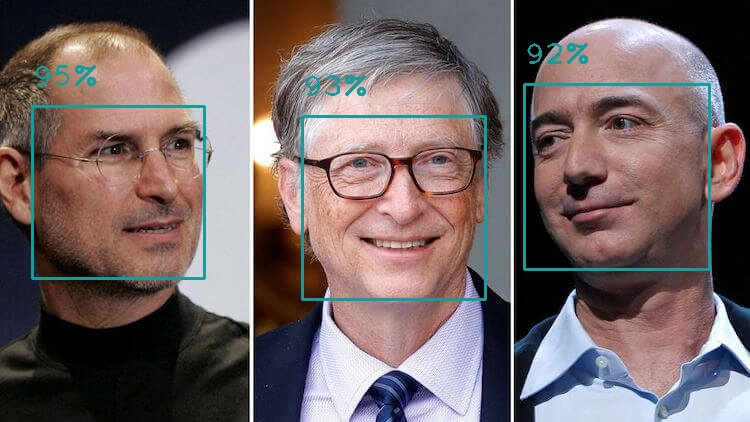
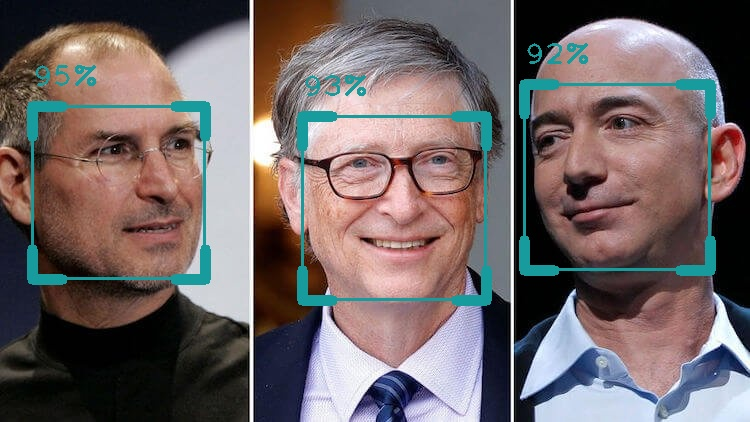
custom draw function with corners highlighted

diff --git a/faceDetection.py b/faceDetection.py
@@ -34,7 +34,7 @@ class FaceDetector:
                 # a tuple containing (id, boundingBox, detectionScore)
                 boundingBoxes.append((ind, boundingBox, detection.score))
                 if draw:
-                    cv2.rectangle(img, boundingBox, ANNOTATION_COLOR, 2)
+                    img = self.customDraw(img, boundingBox)
                     cv2.putText(
                         img,
                         f"{int(detection.score[0] * 100)}%",
@@ -55,9 +55,32 @@ class FaceDetector:
             res.append(self.findFace(frame, draw))
         return res
 
+    def customDraw(self, img, boundingBox, cornerMarkerLength=30, cornerMarkerThickness=10):
+        xStart, yStart, w, h = boundingBox
+        xEnd, yEnd = xStart + w, yStart + h
+
+        cv2.rectangle(img, boundingBox, ANNOTATION_COLOR, 2)
+        # top left corner
+        cv2.line(img, (xStart, yStart), (xStart + cornerMarkerLength, yStart), ANNOTATION_COLOR, cornerMarkerThickness)
+        cv2.line(img, (xStart, yStart), (xStart, yStart + cornerMarkerLength), ANNOTATION_COLOR, cornerMarkerThickness)
+
+        # top right corner
+        cv2.line(img, (xEnd, yStart), (xEnd - cornerMarkerLength, yStart), ANNOTATION_COLOR, cornerMarkerThickness)
+        cv2.line(img, (xEnd, yStart), (xEnd, yStart + cornerMarkerLength), ANNOTATION_COLOR, cornerMarkerThickness)
+
+        # bottom right corner
+        cv2.line(img, (xEnd, yEnd), (xEnd - cornerMarkerLength, yEnd), ANNOTATION_COLOR, cornerMarkerThickness)
+        cv2.line(img, (xEnd, yEnd), (xEnd, yEnd - cornerMarkerLength), ANNOTATION_COLOR, cornerMarkerThickness)
+
+        # bottom left corner
+        cv2.line(img, (xStart, yEnd), (xStart + cornerMarkerLength, yEnd), ANNOTATION_COLOR, cornerMarkerThickness)
+        cv2.line(img, (xStart, yEnd), (xStart, yEnd - cornerMarkerLength), ANNOTATION_COLOR, cornerMarkerThickness)
+
+        return img
+
 
 def main():
-    filename = "./assets/techPeople1.png"
+    filename = "./assets/techPeople0.jpg"
     filename = os.path.normpath(filename)
     write = True
 
